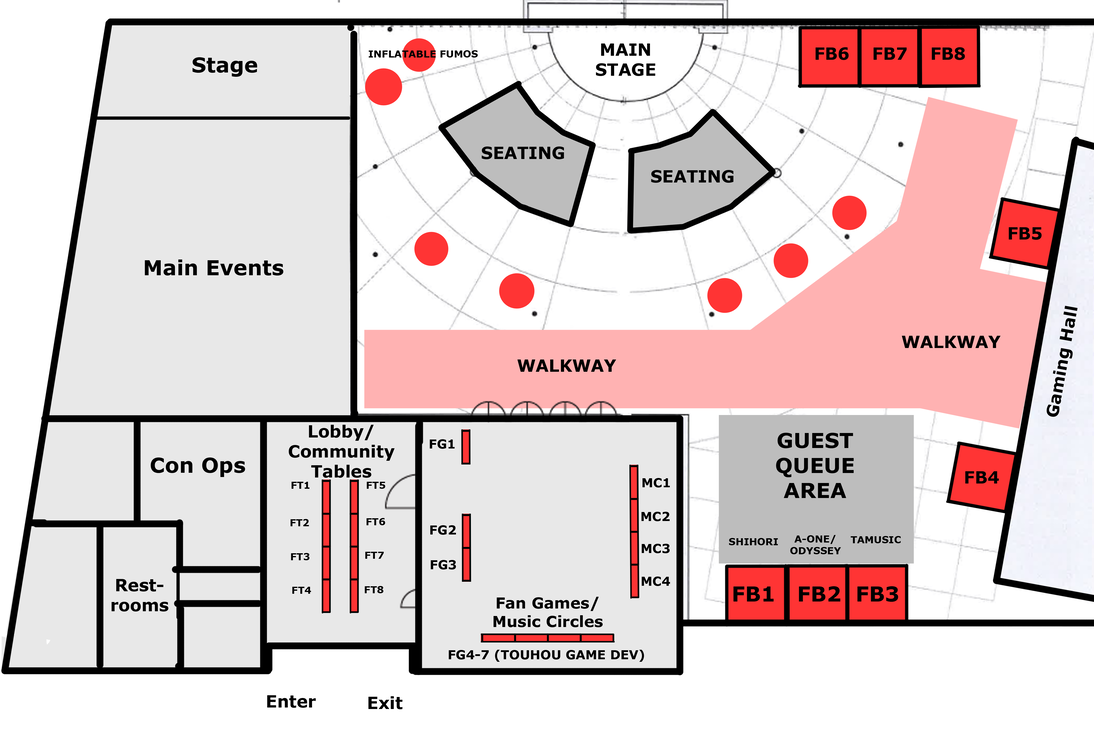
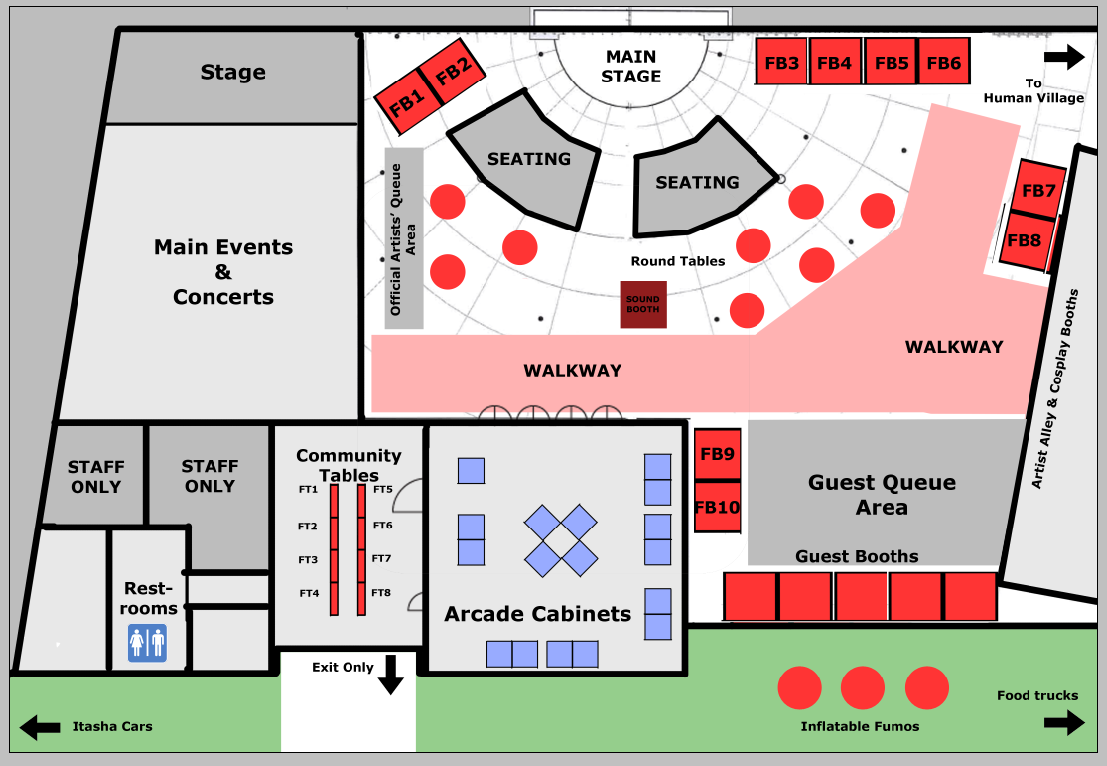
add shrine booths

diff --git a/src/menupages/ArtistVendors.tsx b/src/menupages/ArtistVendors.tsx
@@ -39,8 +39,6 @@ import izakaya from "./../images/artistalley/izakaya.jpg";
 import entryplaza from "./../images/entryplaza.jpg";
 import popumai from "./../images/artistalley/popumai.webp";
 import loveboxf from "./../images/artistalley/loveboxf.jpg";
-import youkaimountain from "./../images/artistalley/youkaimountain.jpg";
-import lemoncreme from "./../images/artistalley/lemoncreme.webp";
 import underworldizakaya from "./../images/artistalley/underworldizakaya.jpg";
 import andrewfm from "./../images/artistalley/andrewfm.png";
 import animelosangeles from "./../images/artistalley/animelosangeles.jpg";
@@ -113,6 +111,10 @@ import whimsicalarchive from "./../images/artistalley/whimsicalarchive.jpg";
 import brainjuice from "./../images/artistalley/brainjuice.jpg";
 import sunameridrill from "./../images/artistalley/sunameridrill.jpg";
 
+import lemoncreme from "./../images/artistalley/lemoncreme.jpg";
+import youkaimountain from "./../images/artistalley/youkaimountain.jpg";
+import wudjadoo from "./../images/artistalley/wudjadoo.jpg";
+
 import { GlobalTransformWrapper } from './ConCenter';
 import { neosanctum, maidacademy, suzukann } from "./../Utils";
 
@@ -181,12 +183,12 @@ let vendors = [
 {"name": "FMAnime Shop", "image": fmanime, "location": "V08", "website": "https://www.fm-anime.com/", "role": "Cosplay"},
 {"name": "TouhouFest Merch", "image": touhoufest, "location": "V09", "website": "https://www.touhoufest.org/store", "role": "Merch"},
 {"name": "TouhouFest Info Booth", "image": touhoufest, "location": "V10", "website": "https://schedule.touhoufest.org", "role": "Info"},
-{"name": "KinoKreations", "image": kinocreations, "location": "V11 & V12", "website": "https://kinokreations.myshopify.com/", "role": "Artist"},
+{"name": <>Kino&shy;Kreations</>, "image": kinocreations, "location": "V11 & V12", "website": "https://kinokreations.myshopify.com/", "role": "Artist"},
 {"name": "Seraphim Complex", "image": serapim, "location": "V13", "website": "https://seraphimcomplex.com/", "role": "Merch"},
 {"name": "Whimsical Artchive ", "image": whimsicalarchive, "location": "V14", "website": "https://whimsicalartchive.carrd.co/", "role": "Artist"},
 {"name": "Stuffy Rabbit", "image": placeholder, "location": "V15", "website": "", "role": "Vendor"},
 {"name": "Brainjuice Art", "image": brainjuice, "location": "V16", "website": "https://www.brainjuiceart.com/", "role": "Artist"},
-{"name": "SunameriDrill", "image": sunameridrill, "location": "V17", "website": "https://www.instagram.com/sunameridrill/", "role": "Vendor"},
+{"name": <>Sunameri&shy;Drill</>, "image": sunameridrill, "location": "V17", "website": "https://www.instagram.com/sunameridrill/", "role": "Vendor"},
 ];
 vendors.sort((a,b) => a["location"].localeCompare(b["location"]));
 
@@ -257,64 +259,14 @@ let fanmusicgames = [
 fanmusicgames.sort((a,b) => a["location"].localeCompare(b["location"]));
 
 let plazatables = [
-    {
-        "name": "Shihori",
-        "image": shihori,
-        "role": "Guest",
-        "website": "https://linktr.ee/shihorimusic",
-        "location": "Booth FB1"
-    },
-    {
-        "name": "Odyssey",
-        "image": odyssey,
-        "role": "Guest",
-        "website": "https://linktr.ee/odysseyeurobeat",
-        "location": "Booth FB2"
-    },
-    {
-        "name": "TAMUSIC",
-        "image": tam,
-        "role": "Guest",
-        "website": "https://twitter.com/tamusic",
-        "location": "Booth FB3"
-    },
-    {
-        "name": "Goen Kizuna / Youkai Mountain",
-        "role": "Festival Booth",
-        "image": youkaimountain,
-        "website": "https://twitter.com/YoukaiMountain",
-        "location": "Booth FB6"
-    },
-    {
-        "name": "Lemon-Crème Studios",
-        "role": "Festival Booth",
-        "image": lemoncreme,
-        "website": "https://www.etsy.com/shop/LemonCremeStudios",
-        "location": "Booth FB7"
-    },
-    {
-        "name": "Touhou Hobby Society",
-        "role": "Festival Booth",
-        "image": placeholder,
-        "website": "",
-        "location": "Booth FB8"
-    },
-    {
-        "name": "Maid Academy Cafe",
-        "image": maidacademy,
-        "role": "Vendor",
-        "website": "https://linktr.ee/maidacademy",
-        "description": "",
-        "location": "Booth FB5"
-    },
-    {
-        "name": "Underworld Izakaya",
-        "image": underworldizakaya,
-        "role": "Festival Booth",
-        "website": "https://twitter.com/MystiaTorrance",
-        "description": "",
-        "location": "Booth FB4"
-    }
+{"name": "Cloudie", "image": cookie, "location": "Booth FB01", "website": "https://linktr.ee/cookietanuki", "role": "Official Artist"},
+{"name": "Freeze", "image": freezeex, "location": "Booth FB02", "website": "https://icecute.squarespace.com/", "role": "Official Artist"},
+{"name": "Lemon-Crème", "image": lemoncreme, "location": "Booth FB03", "website": "https://www.etsy.com/shop/LemonCremeStudios", "role": "Festival Booth"},
+{"name": "Kusoya / Yasoku", "image": placeholder, "location": "Booth FB04", "website": "", "role": "Festival Booth"},
+{"name": "Youkai Mountain", "image": youkaimountain, "location": "Booth FB05", "website": "https://x.com/YoukaiMountain", "role": "Festival Booth"},
+{"name": "Wudjadoo", "image": wudjadoo, "location": "Booth FB06", "website": "https://wudjadoo.myshopify.com/", "role": "Festival Booth"},
+{"name": "Maid Academy", "image": maidacademy, "location": "Booth FB07", "website": "https://linktr.ee/maidacademy", "role": "Vendor"},
+{"name": "Edward Cadenza", "image": placeholder, "location": "Booth FB08 ~ FB10", "website": "", "role": "Festival Booth"},
 ];
 plazatables.sort((a,b) => a["location"].localeCompare(b["location"]));
 
@@ -369,14 +321,14 @@ let official_artists = [
     {
         "name": <>Cloudie/Cookie&shy;tanuki&shy;art</>,
         "image": cookie,
-        "location": "Outside AA",
+        "location": "See Torino Plaza",
         "website": "https://linktr.ee/cookietanuki",
         "description": ""
     },
     {
         "name": "FREEZE-EX",
         "image": freezeex,
-        "location": "Outside AA",
+        "location": "See Torino Plaza",
         "website": "https://icecute.squarespace.com/",
         "description": ""
     },
@@ -469,7 +421,7 @@ export const artistVendorsPage = {
         </Row>
 
         <h5>List of Vendors</h5>
-        <p>The majority of the entries listed below are in vendors (denoted "Booth VXX").</p>
+        <p>Entries listed below are in vendors (denoted "Booth VXX").</p>
         <Row xs={2} md={4} lg={5} className="g-3 justify-content-center">
             {vendors.map((artist, i) => <>
              <Col>
@@ -487,11 +439,11 @@ export const artistVendorsPage = {
             </>)}
        </Row>
 
-       <h4 className="mt-2">Music, Fangame, & Shrine Tables</h4>
+       <h4 className="mt-2">Music, Fangame, & Shrine Tables at Torino Plaza</h4>
        <h5>Booth Map</h5>
         <p>Pinch to focus in/zoom on the map as needed. Participant locations are denoted by the alphanumeric code next to them. Participants in this sections are spread out over several different locations and will be indicated accordingly.</p>
-        <Row xs={1} md={2} className="justify-content-center">
-            <Col>
+        <Row className="justify-content-center">
+            <Col xs={12} lg={10}>
                 <GlobalTransformWrapper src={torinoplazamap} caption="Map of Vendors at Torino Plaza" />
             </Col>
         </Row>

diff --git a/src/utilscripts/analyzeartists.py b/src/utilscripts/analyzeartists.py
@@ -16,9 +16,9 @@ def generate_imports(imagename):
 
 if __name__ == "__main__":
     
-    name="vendors"
+    name="shrinebooths"
 
-    df = pd.read_csv("vendors.csv").fillna("")
+    df = pd.read_csv(f"{name}.csv").fillna("")
     
     imports = df["image"].map(generate_imports)
 
@@ -27,7 +27,7 @@ if __name__ == "__main__":
             print(row, file=f)
 
     df = df.apply(operate_func, axis=1)
-    with open("vendors.txt","w") as f:
+    with open(f"{name}.txt","w") as f:
         print("[", file=f)
         for row in df.tolist():
             print(f"{row},", file=f)
